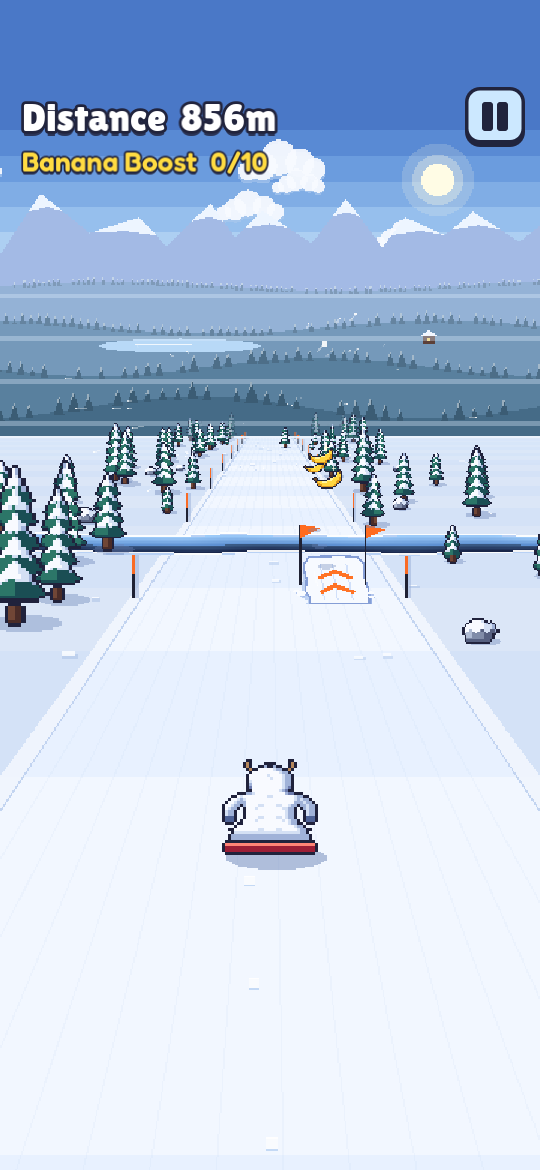
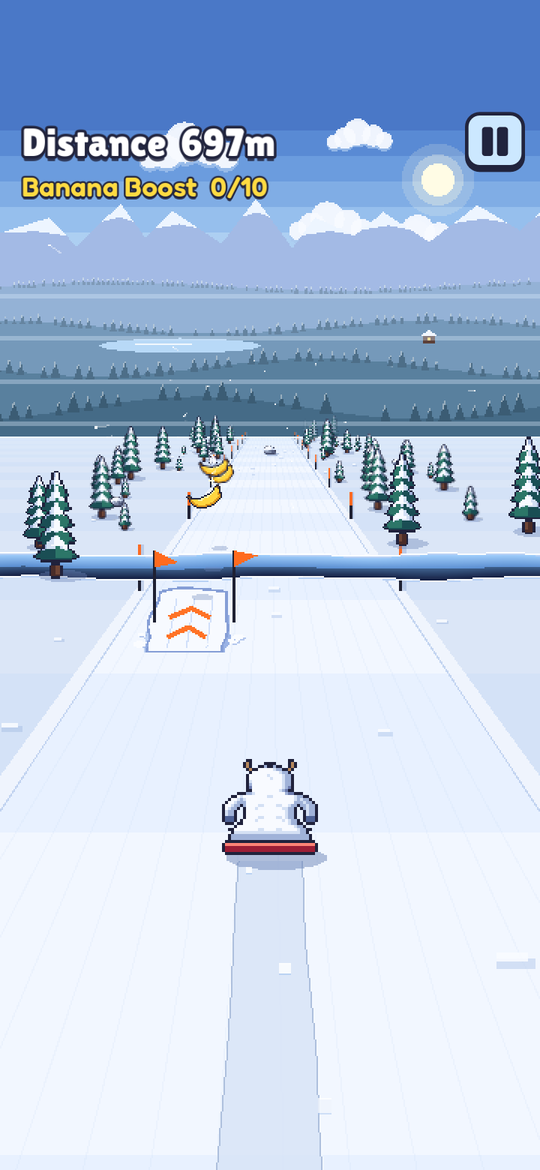
Fresh screenshots: sled groove, sharper pixels, no tutorial hints

diff --git a/index.html b/index.html
@@ -11,7 +11,7 @@
   <meta property="og:title" content="Oh Yeti!">
   <meta property="og:description" content="Stolen bananas. Borrowed sled. Zero brakes. A pixel-art downhill runner for iPhone and Android.">
   <meta property="og:url" content="https://ohyeti.app/">
-  <meta property="og:image" content="https://ohyeti.app/img/share.png?v=3">
+  <meta property="og:image" content="https://ohyeti.app/img/share.png?v=4">
   <meta property="og:image:width" content="1200">
   <meta property="og:image:height" content="630">
   <meta property="og:image:alt" content="Oh Yeti! title next to a phone showing the yeti sledding downhill">
@@ -51,14 +51,14 @@
         <p class="pitch">A pixel-art downhill runner for iPhone and Android. Tap left, tap right, try not to hit the tree.</p>
         <span class="pill">Coming soon to the App Store &amp; Google Play</span>
       </div>
-      <div class="ha-phone"><img class="pixel" src="img/gameplay_hero.png?v=3" alt="Oh Yeti! gameplay: a jump ramp ahead with a banana arc over the crevasse behind it" width="540" height="1170"></div>
+      <div class="ha-phone"><img class="pixel" src="img/gameplay_hero.png?v=4" alt="Oh Yeti! gameplay: a jump ramp ahead with a banana arc over the crevasse behind it, the sled leaving a groove in the snow" width="540" height="1170"></div>
     </div>
   </header>
 
   <main>
     <section class="showcase">
       <div class="phone">
-        <img class="pixel" src="img/gameplay.png?v=3" alt="Oh Yeti! gameplay: the yeti sledding toward a hole in the snow" width="540" height="1170">
+        <img class="pixel" src="img/gameplay.png?v=4" alt="Oh Yeti! gameplay: the yeti sledding toward a hole in the snow, leaving a groove behind" width="540" height="1170">
       </div>
       <div>
         <h2>One yeti. One sled. One very long hill.</h2>

diff --git a/privacy.html b/privacy.html
@@ -10,7 +10,7 @@
   <meta property="og:site_name" content="Oh Yeti!">
   <meta property="og:title" content="Privacy Policy · Oh Yeti!">
   <meta property="og:url" content="https://ohyeti.app/privacy.html">
-  <meta property="og:image" content="https://ohyeti.app/img/share.png?v=3">
+  <meta property="og:image" content="https://ohyeti.app/img/share.png?v=4">
   <meta name="twitter:card" content="summary_large_image">
   <meta name="theme-color" content="#27458f">
   <link rel="icon" type="image/png" href="img/favicon.png">
